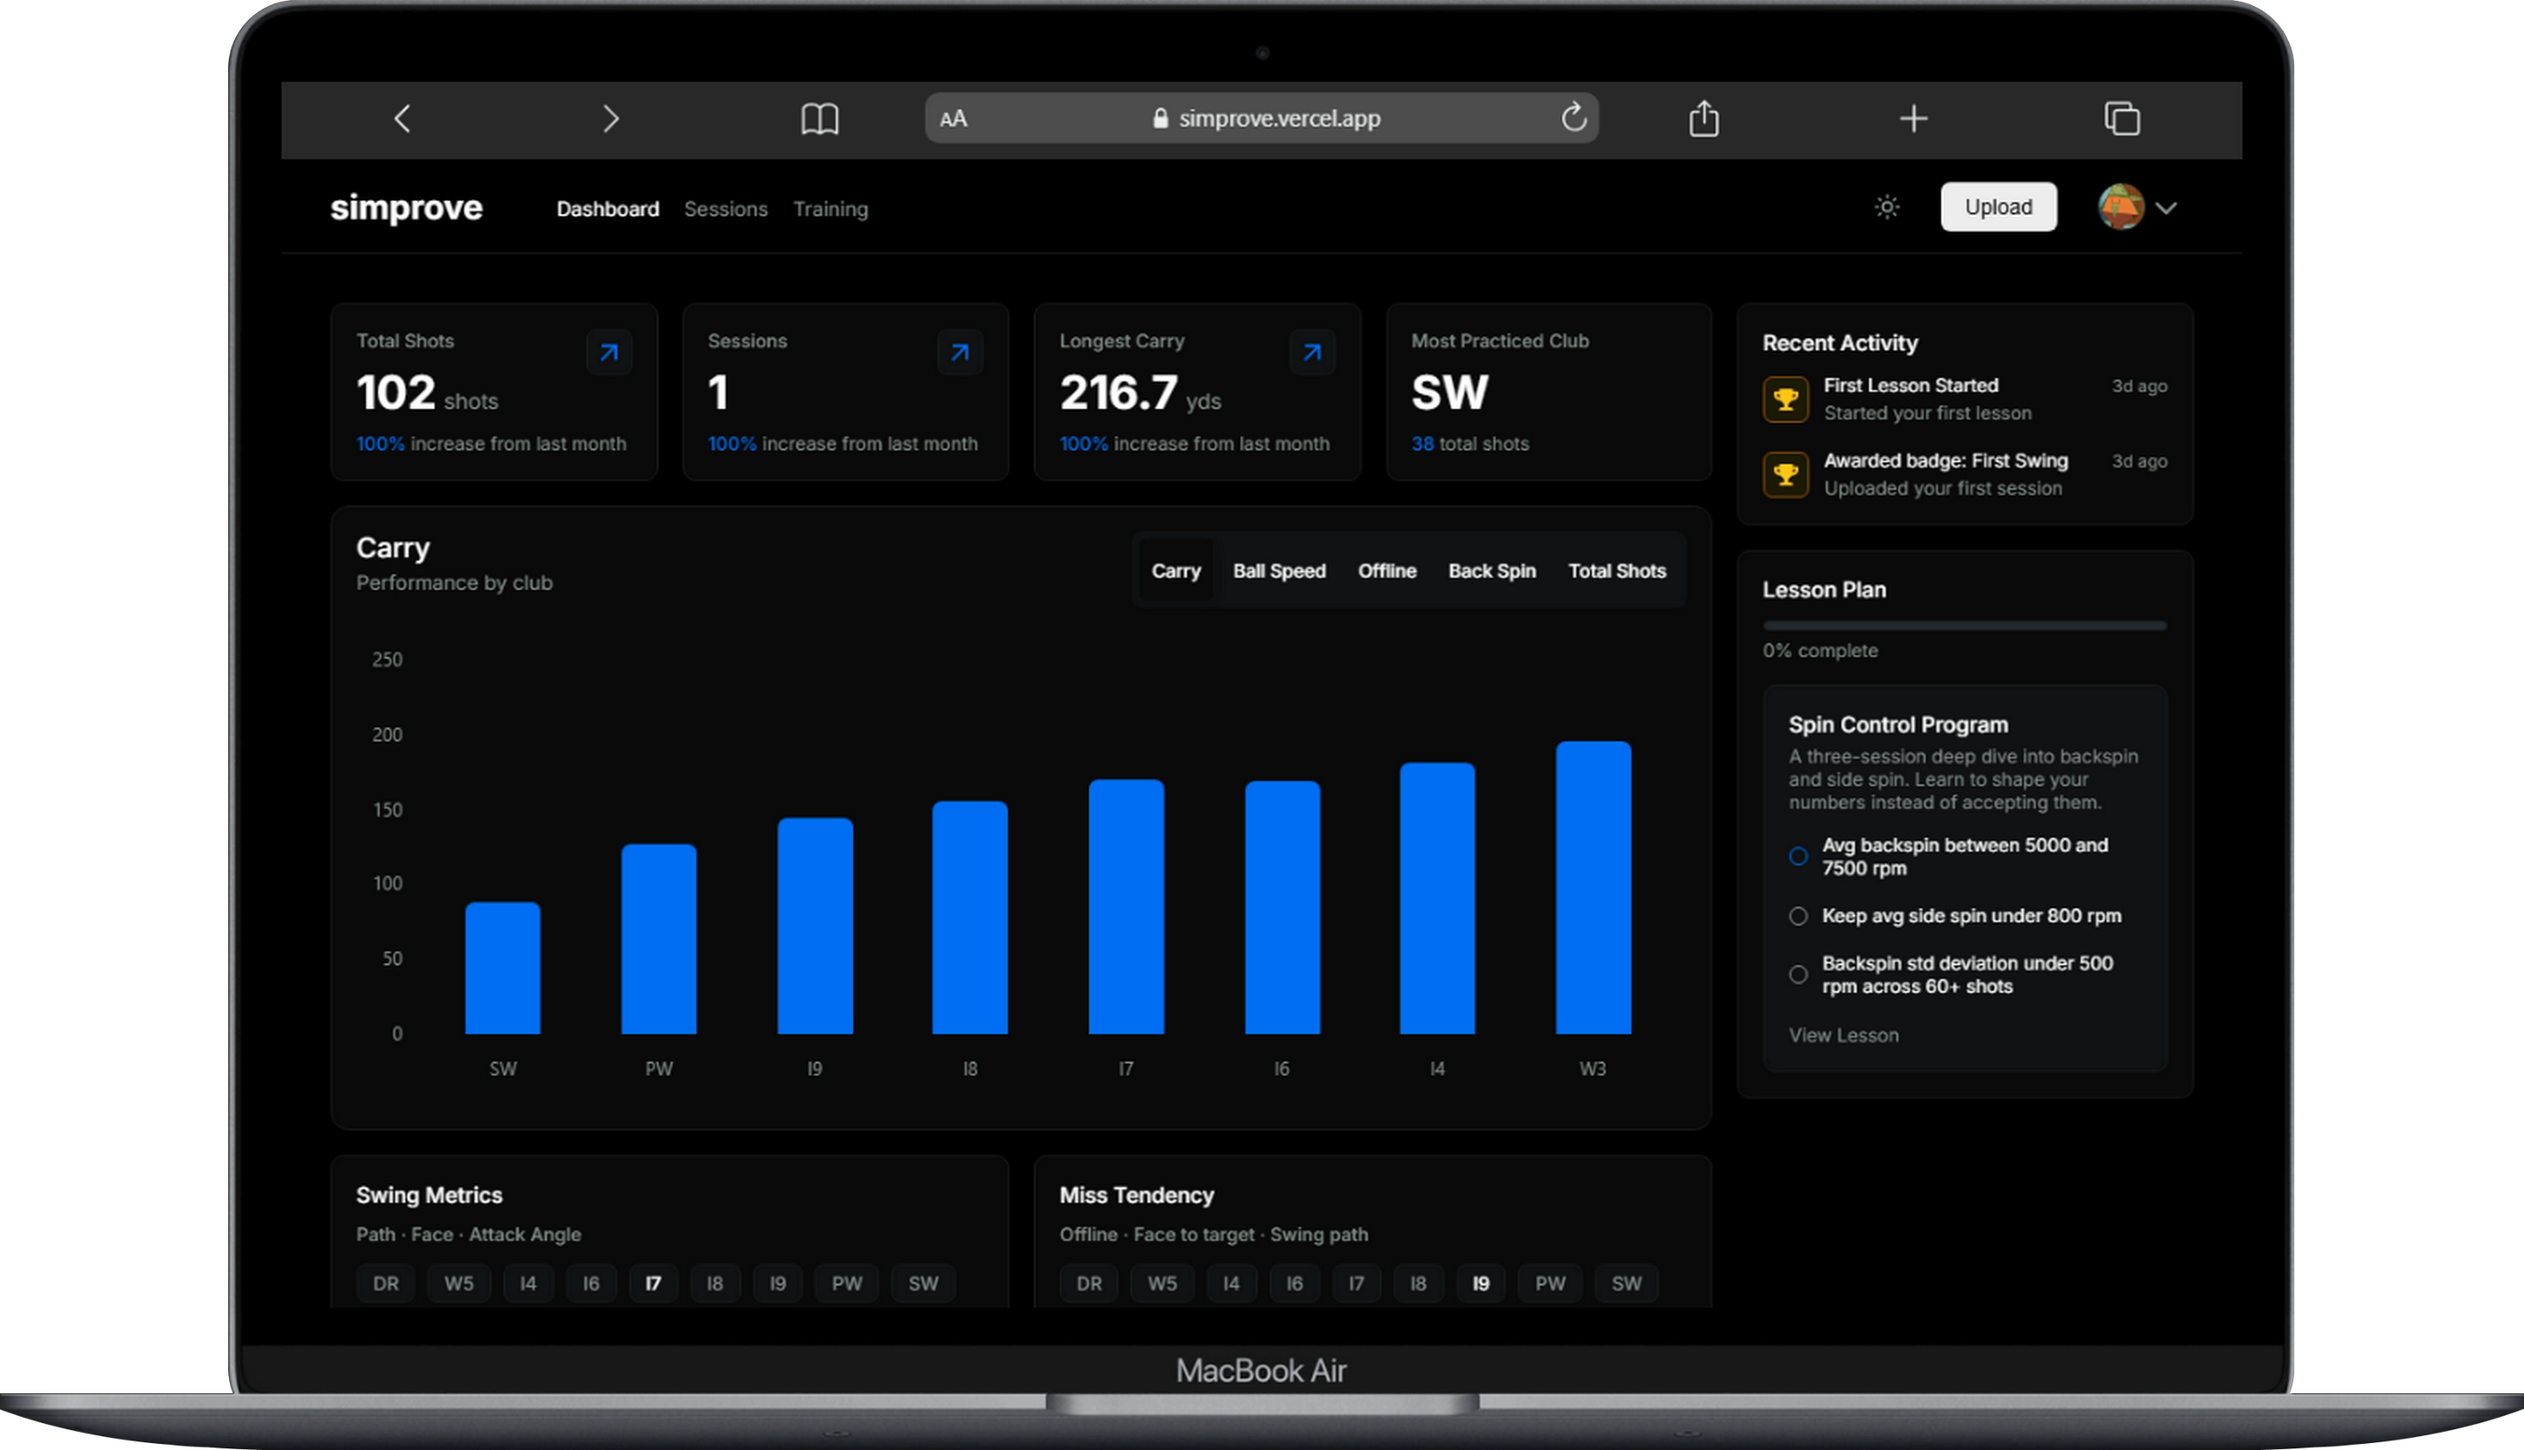
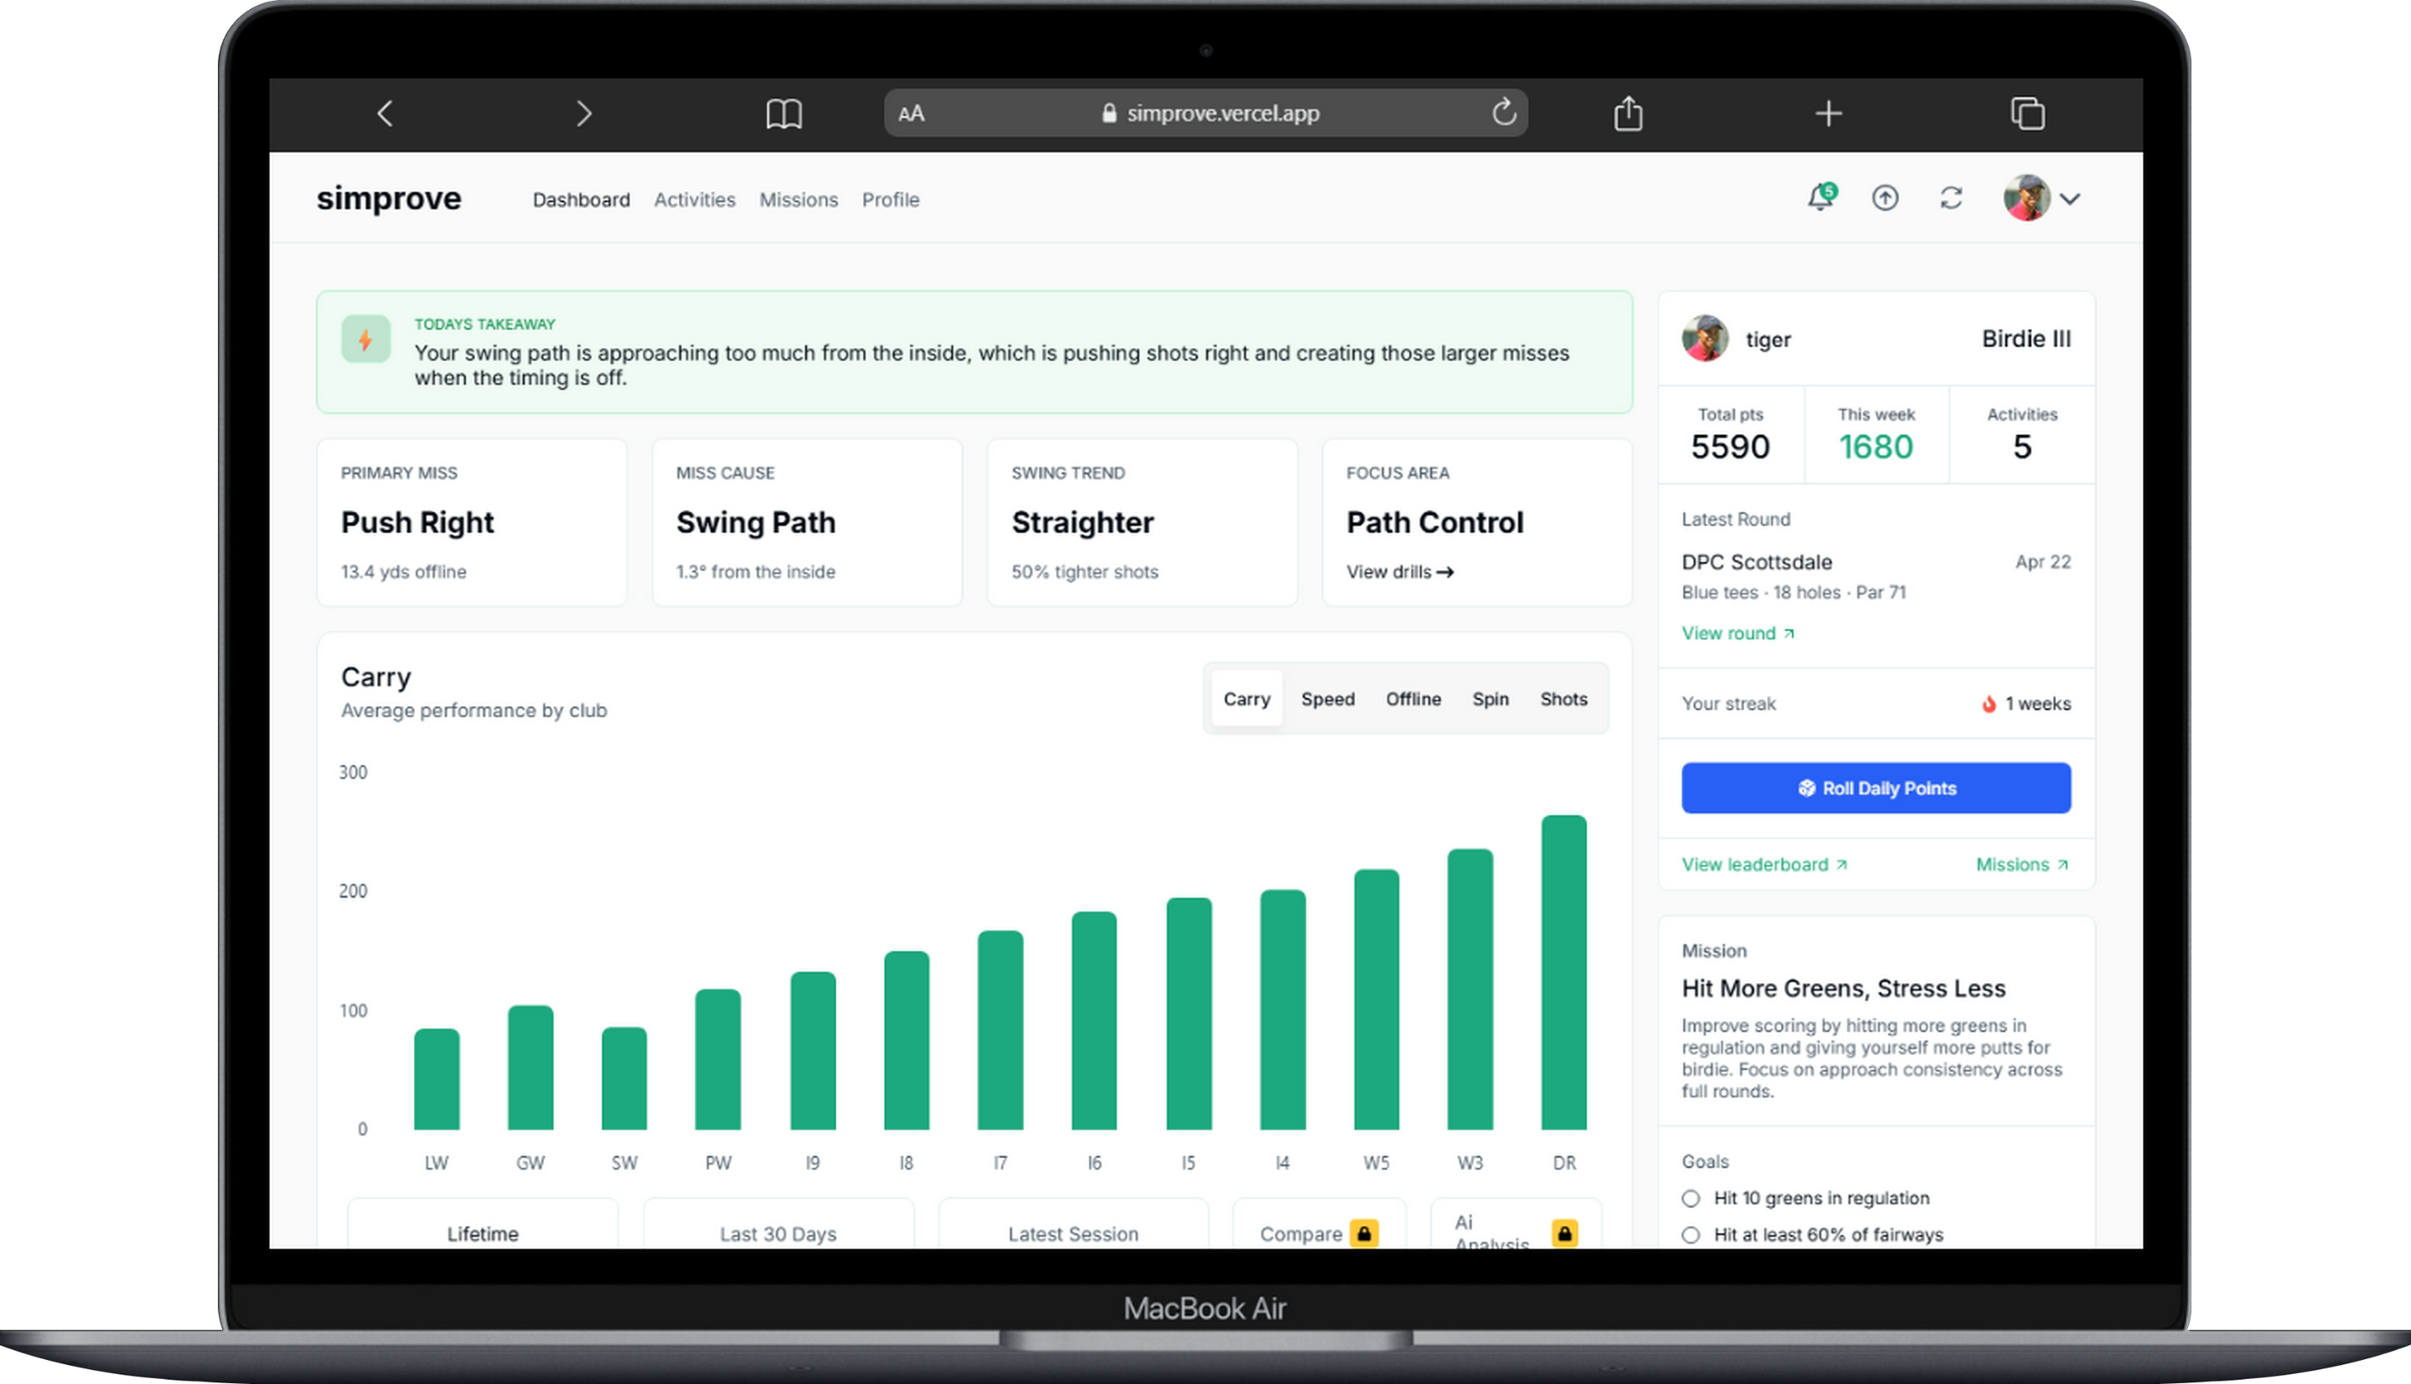
feat: updated portfolio

diff --git a/src/components/footer/Footer.tsx b/src/components/footer/Footer.tsx
@@ -14,7 +14,7 @@ const Footer = () => {
             <Link href={"/project/muunifi"}>Muunifi</Link>
           </li>
           <li>
-            <Link href={"/project/fretify"}>Fretify</Link>
+            <Link href={"/project/guitlab"}>Guitlab</Link>
           </li>
         </ul>
         <div className={styles.copyright}>
